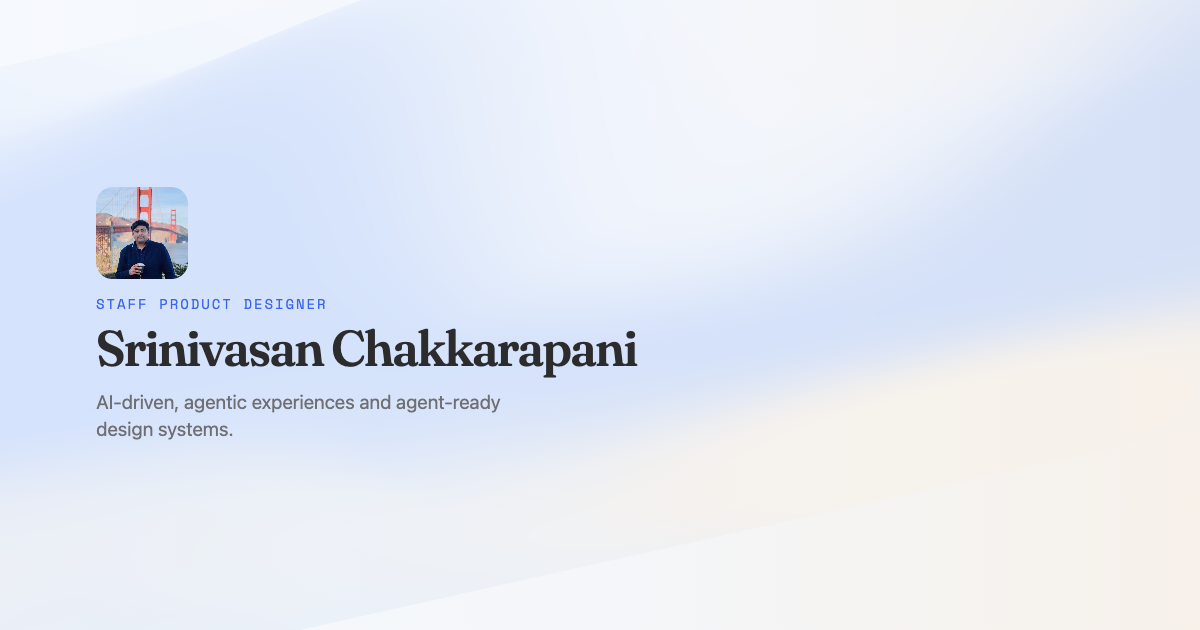
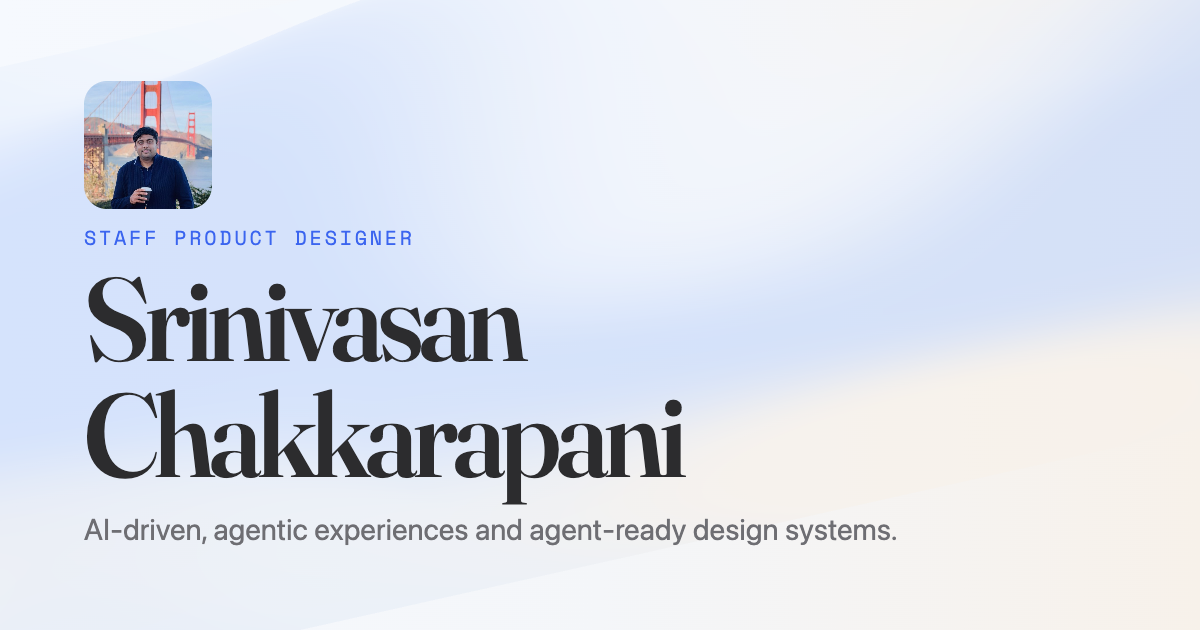
Scale the Open Graph type so the name fills the share card.
Stack the name on two lines and cache-bust the PNG so crawlers pick up the new still.

Changed region(s): [[0.0617, 0.1206, 0.74, 0.8746]]

diff --git a/share-preview.html b/share-preview.html
@@ -79,6 +79,8 @@
       background: var(--srini-hero-footer-gradient);
       position: relative;
       border: 1px solid rgba(29,29,31,.1);
+      container-type: inline-size;
+      container-name: og;
     }
     .og-stripe {
       position: absolute;
@@ -100,15 +102,15 @@
       flex-direction: column;
       justify-content: center;
       align-items: flex-start;
-      padding: 8% 8%;
+      padding: 6.5% 7%;
       max-width: 100%;
     }
     .og-photo {
-      width: clamp(56px, 12.5%, 92px);
+      width: clamp(72px, 12cqi, 128px);
       aspect-ratio: 1;
       border-radius: 18%;
       overflow: hidden;
-      margin: 0 0 1.1rem;
+      margin: 0 0 1.15rem;
       flex-shrink: 0;
       box-shadow: inset 0 0 0 1px rgba(255, 255, 255, 0.45);
     }
@@ -125,27 +127,29 @@
       .og-stripe { display: none; }
     }
     .og-kicker {
-      font: 400 clamp(11px, 1.6vw, 14px)/1 "Space Mono", monospace;
+      font: 400 clamp(12px, 1.85cqi, 20px)/1 "Space Mono", monospace;
       letter-spacing: .14em;
       text-transform: uppercase;
       color: var(--blue);
-      margin: 0 0 0.7rem;
+      margin: 0 0 0.85rem;
     }
     .og-title {
       font-family: Fraunces, Georgia, serif;
-      font-size: clamp(1.85rem, 4.2vw, 3.1rem);
+      font-size: clamp(2.6rem, 10.1cqi, 7.35rem);
       font-weight: 560;
-      letter-spacing: -0.035em;
-      line-height: 1.08;
-      margin: 0 0 0.85rem;
-      max-width: 18ch;
+      letter-spacing: -0.045em;
+      line-height: 0.98;
+      margin: 0 0 1.05rem;
+      max-width: none;
+      width: 100%;
     }
     .og-desc {
       margin: 0;
       color: var(--muted);
-      font-size: clamp(0.95rem, 1.7vw, 1.2rem);
-      line-height: 1.4;
-      max-width: 36ch;
+      font-size: clamp(1.05rem, 2.55cqi, 1.85rem);
+      line-height: 1.35;
+      max-width: none;
+      width: 100%;
     }
     .li {
       background: #fff;
@@ -232,7 +236,7 @@
               <img src="images/srini-about.png?v=2" alt="" width="92" height="92">
             </div>
             <p class="og-kicker" id="og-kicker">Staff product designer</p>
-            <h2 class="og-title" id="og-title">Srinivasan Chakkarapani</h2>
+            <h2 class="og-title" id="og-title">Srinivasan<br>Chakkarapani</h2>
             <p class="og-desc" id="og-desc">AI-driven, agentic experiences and agent-ready design systems.</p>
           </div>
         </div>

diff --git a/index.html b/index.html
@@ -2335,14 +2335,14 @@
   <meta property="og:url" content="https://srinivasan.design/" />
   <meta property="og:title" content="Srinivasan Chakkarapani | Staff Product Designer" />
   <meta property="og:description" content="AI-driven, agentic experiences and agent-ready design systems." />
-  <meta property="og:image" content="https://srinivasan.design/images/og-share.png" />
+  <meta property="og:image" content="https://srinivasan.design/images/og-share.png?v=2" />
   <meta property="og:image:width" content="1200" />
   <meta property="og:image:height" content="630" />
   <meta property="og:image:alt" content="Srinivasan Chakkarapani, staff product designer" />
   <meta name="twitter:card" content="summary_large_image" />
   <meta name="twitter:title" content="Srinivasan Chakkarapani | Staff Product Designer" />
   <meta name="twitter:description" content="AI-driven, agentic experiences and agent-ready design systems." />
-  <meta name="twitter:image" content="https://srinivasan.design/images/og-share.png" />
+  <meta name="twitter:image" content="https://srinivasan.design/images/og-share.png?v=2" />
   <meta name="description"
     content="Staff product designer. AI-driven, agentic experiences and agent-ready design systems." />
   <link rel="preconnect" href="https://sriniai.netlify.app" crossorigin />

diff --git a/API.html b/API.html
@@ -10,11 +10,11 @@
     <title>API Experiences — Password Protected Case Study</title>
     <meta property="og:title" content="Srinivasan Chakkarapani | Staff Product Designer" />
     <meta property="og:description" content="AI-driven, agentic experiences and agent-ready design systems." />
-    <meta property="og:image" content="https://srinivasan.design/images/og-share.png" />
+    <meta property="og:image" content="https://srinivasan.design/images/og-share.png?v=2" />
     <meta property="og:image:width" content="1200" />
     <meta property="og:image:height" content="630" />
     <meta name="twitter:card" content="summary_large_image" />
-    <meta name="twitter:image" content="https://srinivasan.design/images/og-share.png" />
+    <meta name="twitter:image" content="https://srinivasan.design/images/og-share.png?v=2" />
     <!-- App Icon (matches index.html) -->
     <link href="images/Appicons/iOS/120.png" rel="apple-touch-icon" />
     <link href="images/Appicons/iOS/152.png" rel="apple-touch-icon" sizes="152x152" />

diff --git a/Intuit.html b/Intuit.html
@@ -10,11 +10,11 @@
     <title>Intuit Assist — Password Protected Case Study</title>
     <meta property="og:title" content="Srinivasan Chakkarapani | Staff Product Designer" />
     <meta property="og:description" content="AI-driven, agentic experiences and agent-ready design systems." />
-    <meta property="og:image" content="https://srinivasan.design/images/og-share.png" />
+    <meta property="og:image" content="https://srinivasan.design/images/og-share.png?v=2" />
     <meta property="og:image:width" content="1200" />
     <meta property="og:image:height" content="630" />
     <meta name="twitter:card" content="summary_large_image" />
-    <meta name="twitter:image" content="https://srinivasan.design/images/og-share.png" />
+    <meta name="twitter:image" content="https://srinivasan.design/images/og-share.png?v=2" />
     <!-- App Icon (matches index.html) -->
     <link href="images/Appicons/iOS/120.png" rel="apple-touch-icon" />
     <link href="images/Appicons/iOS/152.png" rel="apple-touch-icon" sizes="152x152" />

diff --git a/Norton.html b/Norton.html
@@ -10,11 +10,11 @@
     <title>Norton — Password Protected Case Study</title>
     <meta property="og:title" content="Srinivasan Chakkarapani | Staff Product Designer" />
     <meta property="og:description" content="AI-driven, agentic experiences and agent-ready design systems." />
-    <meta property="og:image" content="https://srinivasan.design/images/og-share.png" />
+    <meta property="og:image" content="https://srinivasan.design/images/og-share.png?v=2" />
     <meta property="og:image:width" content="1200" />
     <meta property="og:image:height" content="630" />
     <meta name="twitter:card" content="summary_large_image" />
-    <meta name="twitter:image" content="https://srinivasan.design/images/og-share.png" />
+    <meta name="twitter:image" content="https://srinivasan.design/images/og-share.png?v=2" />
     <!-- App Icon (matches index.html) -->
     <link href="images/Appicons/iOS/120.png" rel="apple-touch-icon" />
     <link href="images/Appicons/iOS/152.png" rel="apple-touch-icon" sizes="152x152" />

diff --git a/about.html b/about.html
@@ -12,11 +12,11 @@
 <meta property="og:url" content="https://srinivasan.design/about.html">
 <meta property="og:title" content="Srinivasan Chakkarapani | Staff Product Designer">
 <meta property="og:description" content="AI-driven, agentic experiences and agent-ready design systems.">
-<meta property="og:image" content="https://srinivasan.design/images/og-share.png">
+<meta property="og:image" content="https://srinivasan.design/images/og-share.png?v=2">
 <meta property="og:image:width" content="1200">
 <meta property="og:image:height" content="630">
 <meta name="twitter:card" content="summary_large_image">
-<meta name="twitter:image" content="https://srinivasan.design/images/og-share.png">
+<meta name="twitter:image" content="https://srinivasan.design/images/og-share.png?v=2">
 
 <!-- MWeb app -->
 <meta name="full-screen" content="yes">
